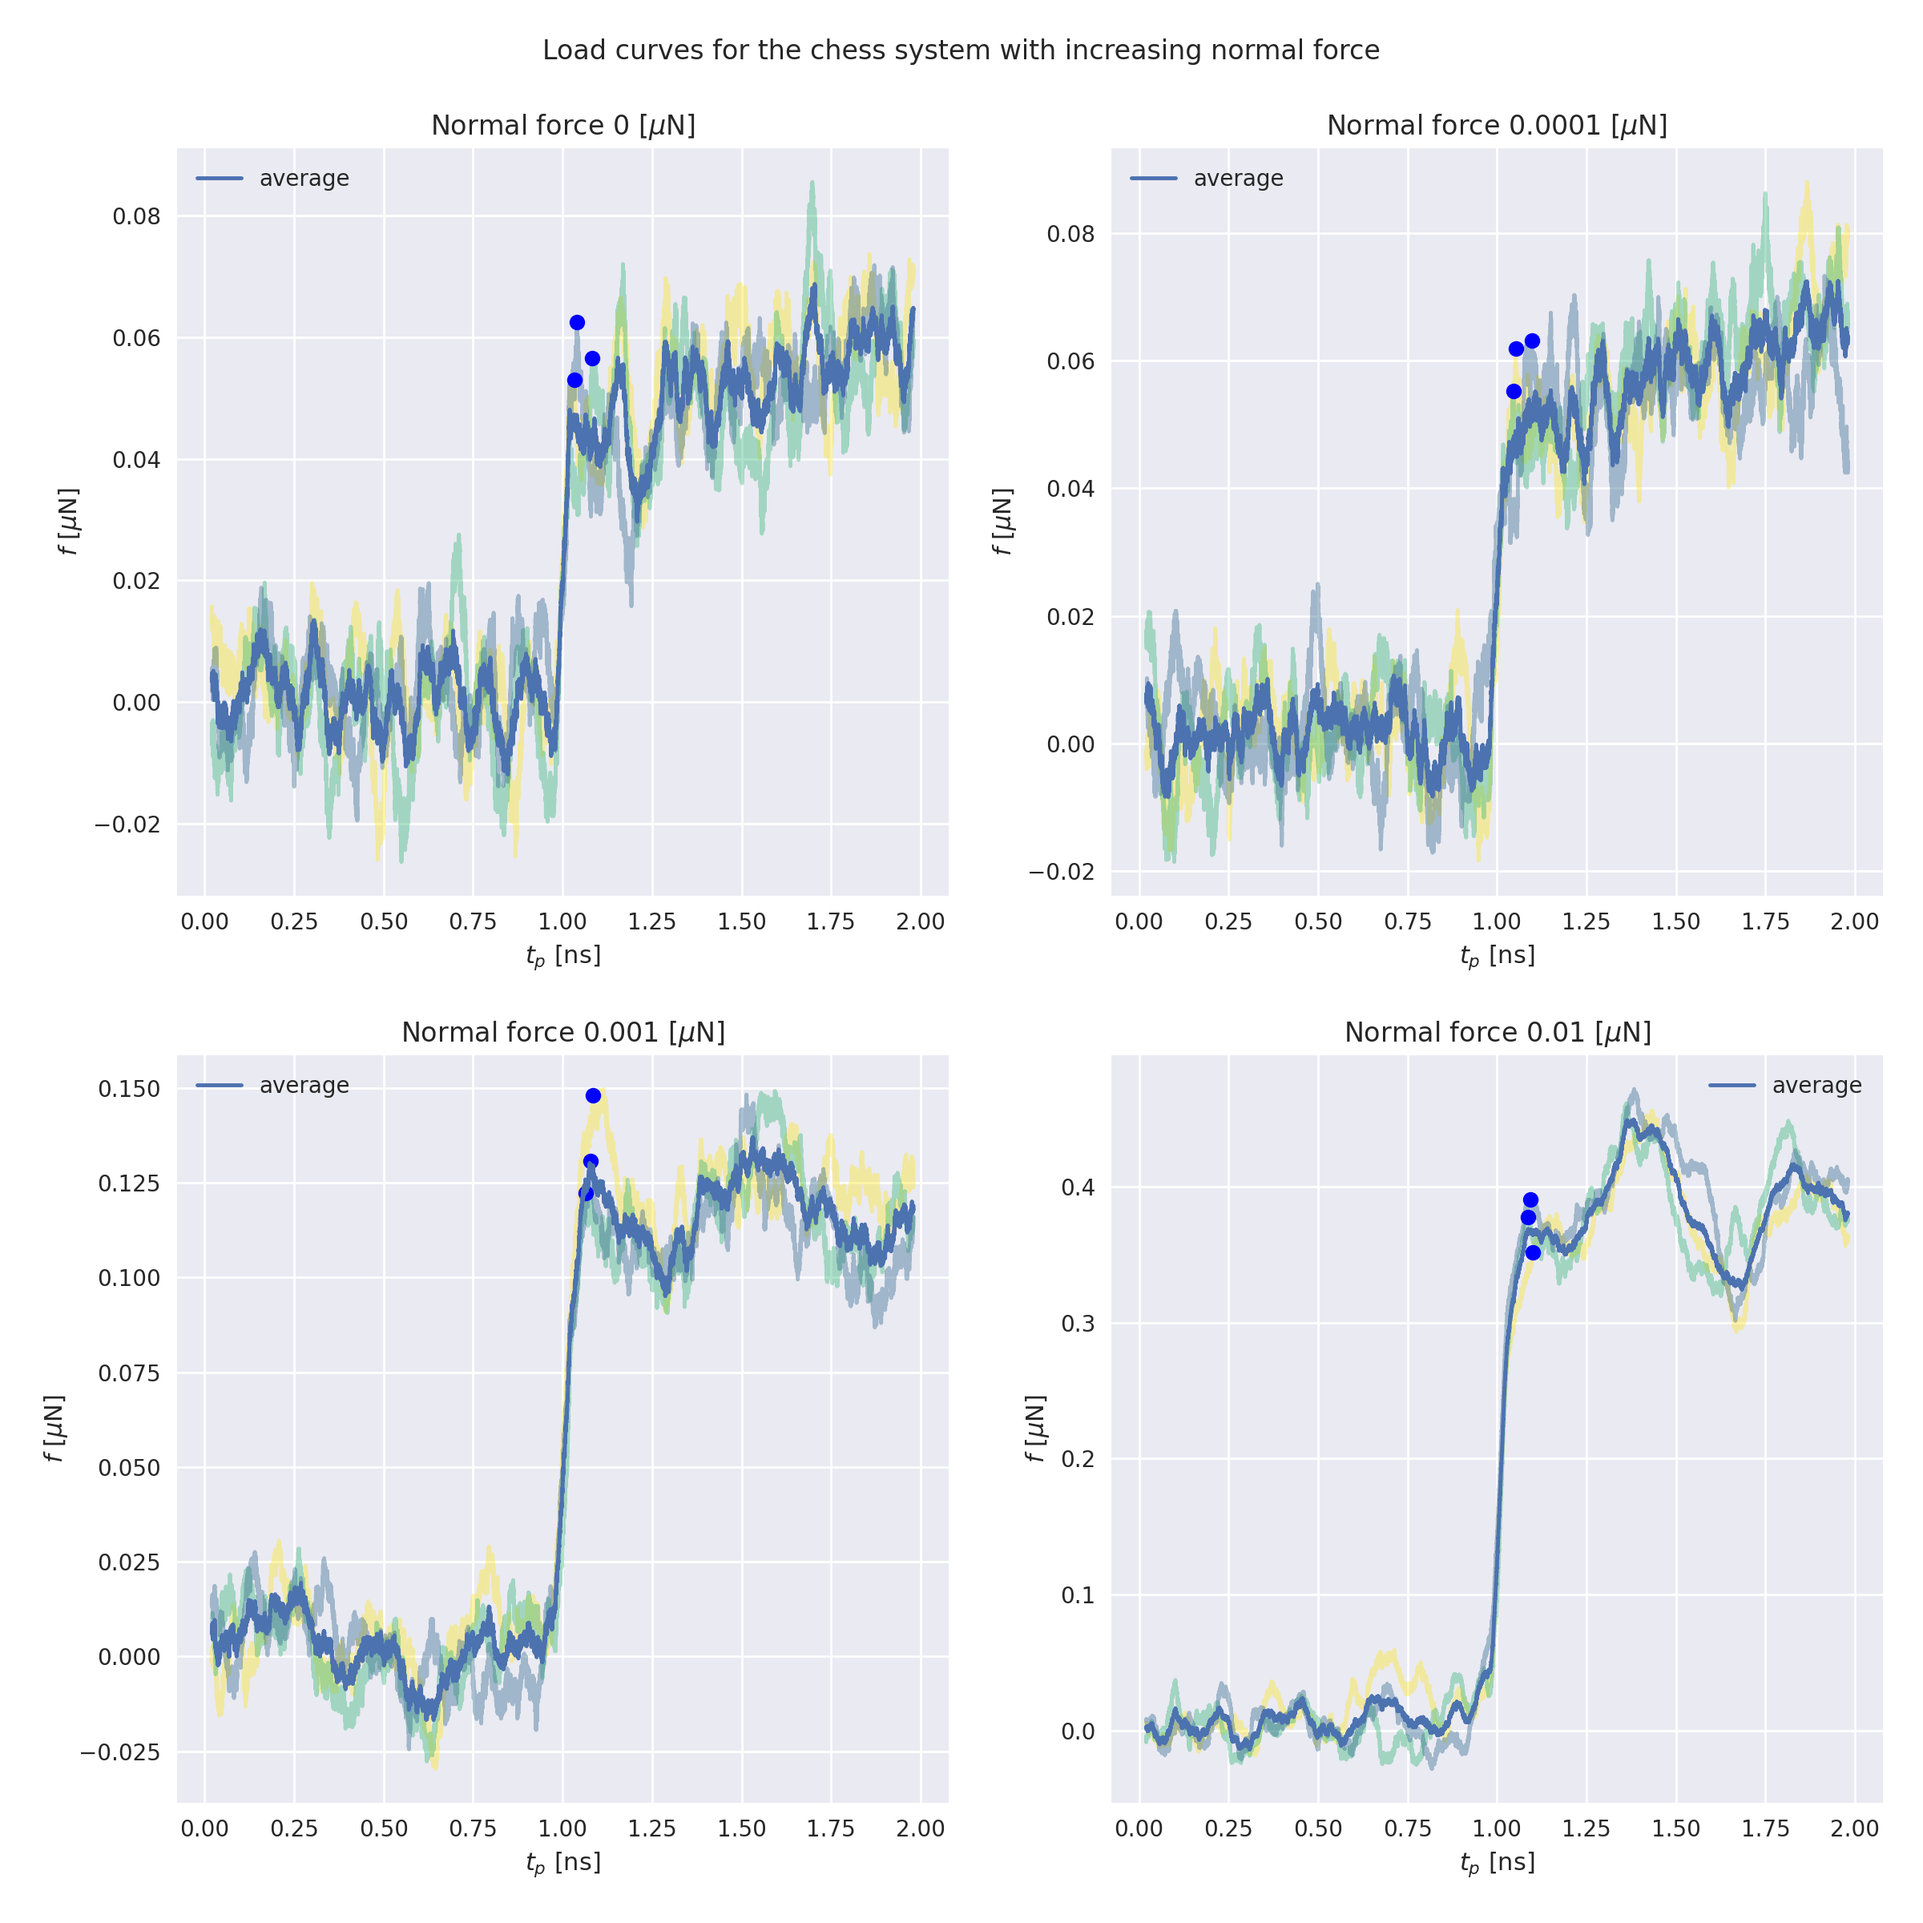
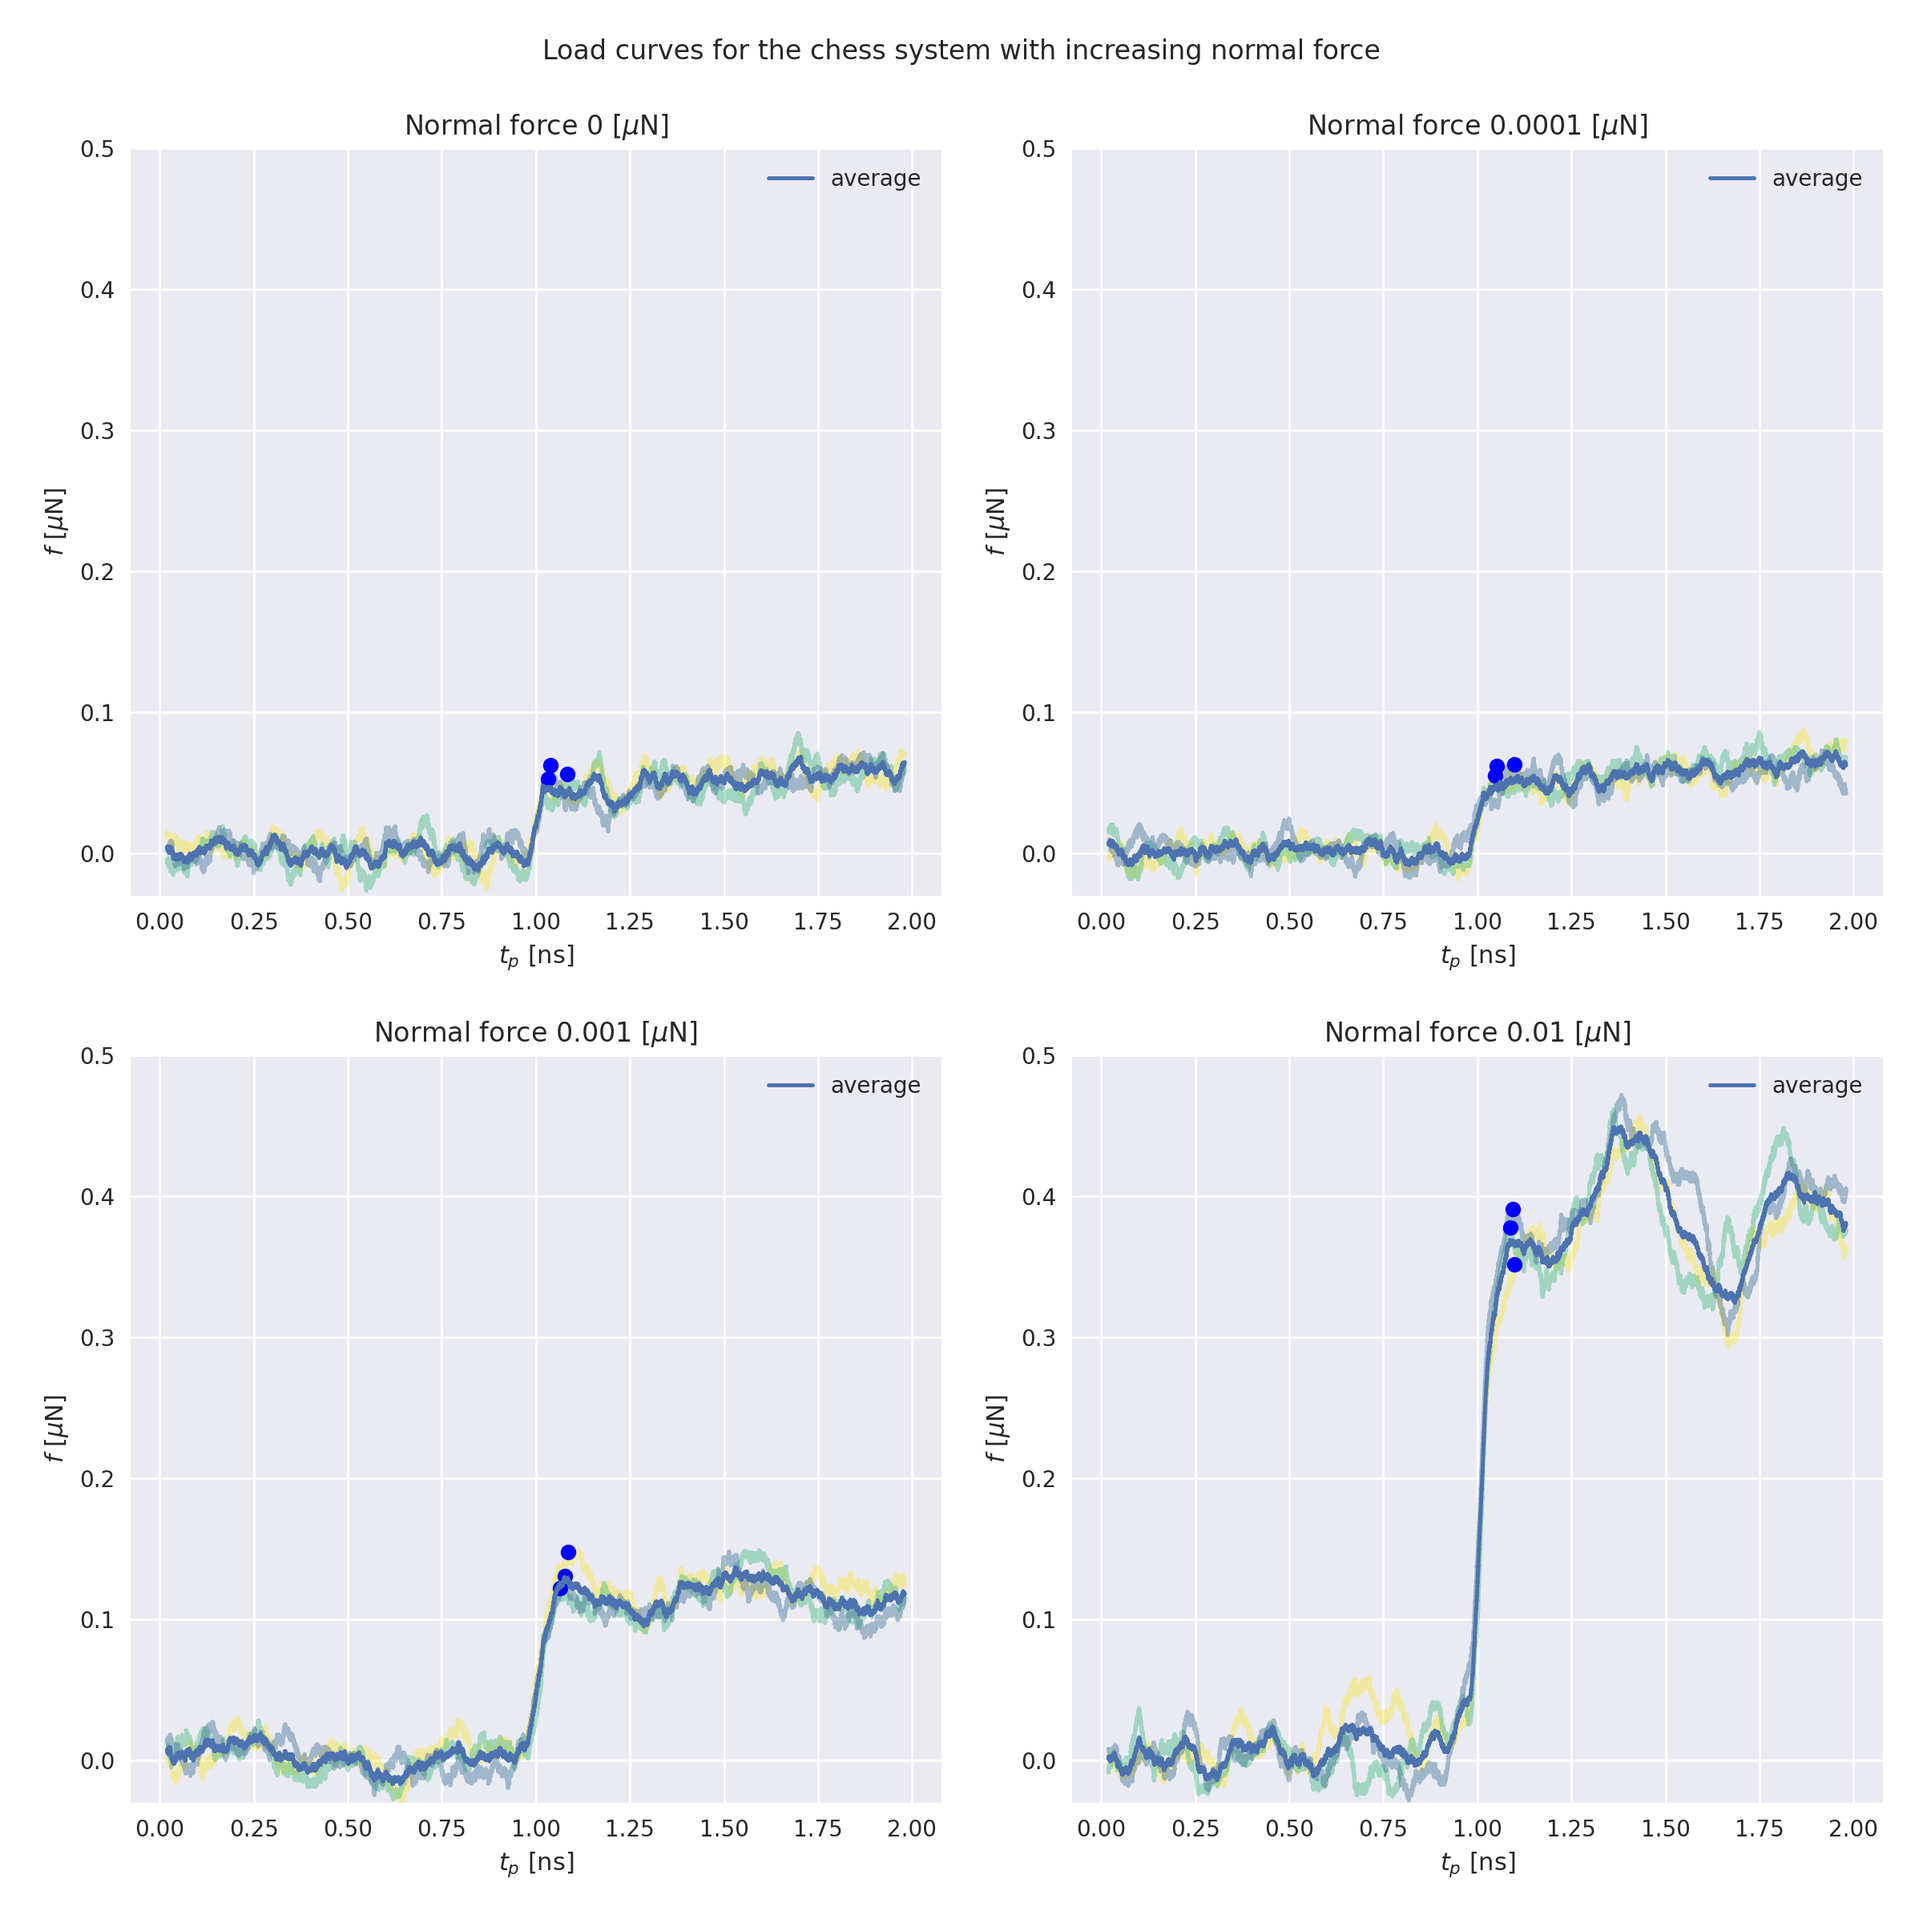
added ylim

diff --git a/python/plot/plot_vary_speed.py b/python/plot/plot_vary_speed.py
@@ -1,0 +1,109 @@
+import re
+import json
+from glob import glob
+from numpy import loadtxt, asarray, mean
+import numpy as np
+import matplotlib as mpl
+import matplotlib.pyplot as plt
+from multiline import multiline
+from matplotlib import style
+from plot_utils import sigmoid, rip_norm, test_rip_norm, fit_sigmoid
+plt.style.use('seaborn')
+
+from plot_load_curves import load_displacement, load_rise, load_load_curves, load_max_static
+
+
+
+
+
+
+def load_vs_normal_force():
+
+    # user input
+    temp = 2300
+    _vel = 5
+    orientation = 110
+    grid = (4,4)
+    erratic = True
+    asperities = 8
+    force = 0
+
+    # paths
+    project_dir = '../../'
+    fig_dir = project_dir + 'fig/'
+    highz_dir = '../../txt/high_z/'
+
+    load_curve_dir = project_dir + 'txt/load_curves/erratic/vary_speed/'
+    max_static_dir = project_dir + 'txt/max_static/erratic/vary_speed/'
+    rise_dir = project_dir + 'txt/rise/erratic/vary_speed/'
+
+    template_lc = load_curve_dir + 'load_curves_temp{}_vel{}_force{}_asp{}_or{}_seed{}_errgrid{}_{}.txt'
+    template_ms = max_static_dir + 'max_static_temp{}_vel{}_force{}_asp{}_or{}_seed{}_errgrid{}_{}.txt'
+    template_r = rise_dir + 'rise_temp{}_vel{}_force{}_asp{}_or{}_seed{}_errgrid4_4.txt'
+
+    #axs1 is load curves over time
+    fig, axs = plt.subplots(2,2, figsize = (12,12))
+    #axs2 is max static and rise
+    fig2, axs2 = plt.subplots(2)
+    axs2 = axs2.ravel()
+    axs = axs.ravel()
+    varyspeed = {2:(55910,60930,14424), 5:(72005,76229,37333), 7:(21702,77727,96687), 10:(56649,11605,41397)}
+
+
+    c = plt.cm.viridis((3 - np.arange(len(varyspeed)))/(3 - 0 + 0.01))
+    for i, (vel, seed) in enumerate(varyspeed.items()):
+
+        load_curves_all, load_curves_mean = load_load_curves(temp, _vel, force, asperities, orientation,
+                                                        grid, template_lc, template_ms, 0, seed, False)
+
+
+        max_static_all, max_static_mean = load_max_static(temp, _vel, force, asperities, orientation,
+                                                        grid, template_lc, template_ms, 0, seed, False)
+
+        rise_all, rise_mean = load_rise(temp, _vel, force, asperities, orientation,
+                                                        grid, template_r, 0, seed, False)
+
+
+        
+        for j,curve in enumerate(load_curves_all):
+            axs[i].plot(curve[:,0], curve[:,1], alpha = 0.4, c=c[j])
+        for j, max_static in enumerate(max_static_all):
+            axs[i].plot(max_static[0], max_static[1], 'bo')
+            axs2[0].plot(vel, max_static[1], 'o', c=c[j])
+        #axs2[0].plot(normforce, max_static_mean[1], '*', label='mean')
+        for j,rise in enumerate(rise_all):
+            axs2[1].plot(vel, rise, 'o', c = c[j])
+        #axs2[1].plot(normforce, rise_mean, '*', label='mean')
+        axs2[0].legend()
+
+    
+        axs[i].plot(load_curves_mean[0,:,0], load_curves_mean[0,:,1], label = f'average')
+        axs[i].legend()
+        axs[i].set_xlabel(r"$t_p$ [ns]")
+        axs[i].set_ylabel(r"$f$ [$\mu$N]")
+        axs[i].set_title(f'velocity {vel} [m/s]')
+        axs[i].set_ylim([-0.02, 0.14])
+
+    fig.suptitle(f"Load curves for the chess system with increasing top plate velocity")
+    fig.tight_layout(pad=1.8)
+    
+    outname = 'vary_vel.png'
+
+    print(f'saved fig to {fig_dir + outname}')
+    fig.savefig(fig_dir + outname, dpi = 200)
+
+    axs2[0].set_title('maximum static')
+    axs2[1].set_title('slope of sigmoid fit')
+    axs2[0].set_xlabel('top plate velocity [m/s]')
+    axs2[1].set_xlabel('top plate velocity [m/s]')
+    axs2[0].set_ylabel(r"$f$ [$\mu$N]")
+    axs2[1].set_ylabel(r"$f$ [$\mu$N]")
+
+
+    fig2.suptitle(f'slope and maximum static friction for varying velocity, chess layout')
+    fig2.tight_layout()
+    fig2.savefig(fig_dir + 'varying_vel_rise_maxstatic.png', dpi = 200)
+
+if __name__ == '__main__':
+
+    load_vs_normal_force()

diff --git a/python/plot/plot_load_curves.py b/python/plot/plot_load_curves.py
@@ -551,7 +551,7 @@ def plot_production():
         template_aux = project_dir + 'simulations/sys_asp{}_uc{}/erratic/sim_temp{}_force{}_asp{}_or{}_time{}_seed{}_errgrid4_4/system_asp{}_or{}_uc{}_initnum{}_errgrid4_4_auxiliary.json'
 
     fig2, axs2 = plt.subplots(2,1) #slope and ms
-    fig, axs = plt.subplots(5,2, figsize = (15,15))
+    fig, axs = plt.subplots(5,2, sharex = True, figsize = (15,15))
     axs = axs.ravel()
     axs2 = axs2.ravel()
     #initseed = {0:(77222, 66232, 79443), 1:(29672, 40129), 2:(64364, 32077), 3:(33829, 84296),
@@ -572,7 +572,7 @@ def plot_production():
     man_init_strange = {0: '[[0,1,1,0][0,1,1,0][0,1,1,0][0,1,1,0]]', 1: '[[0,0,0,0][1,1,1,1][1,1,1,1][0,0,0,0]]',
                         2: '[[0,1,0,0][1,1,1,0][1,1,1,0][0,1,0,0]]', 3: '[[1,0,1,0][0,1,0,1][1,0,1,0][0,1,0,1]]'}
     strange = True
-    c = plt.cm.viridis((9 - np.arange(10))/(9 - 0 + 0.01))
+    c = plt.cm.viridis((3 - np.arange(3))/(3 - 0 + 0.01))
     for i, (initnum, seeds) in enumerate(initseed.items()):
         if production:
             load_curves_all, load_curves_mean= load_load_curves(temp, vel, force, asperities, orientation,
@@ -615,7 +615,7 @@ def plot_production():
         #print('ms all, ms mean ', ms_all, ms_mean) 
         #print('load curves', np.shape(load_curves_all), np.shape(load_curves_mean))
         for j, load_curve in enumerate(load_curves_all):
-            axs[i].plot(load_curve[:,0], load_curve[:,1], c = c[i], label = f'rise: {rise_all[j]:.4e}')
+            axs[i].plot(load_curve[:,0], load_curve[:,1], c = c[j], label = f'rise: {rise_all[j]:.4e}')
             axs[i].legend()
             fit_sigmoid(load_curve, fig, axs[i])
 
@@ -623,9 +623,9 @@ def plot_production():
 
         for ms in ms_all:
            axs[i].plot(ms[0], ms[1], 'o') #this is just proprietary
-           axs2[0].plot(i, ms[1], 'ro', c=c[i])
-        for slope in rise_all:
-            axs2[1].plot(i, slope, 'ro', c = c[i])
+        #   axs2[0].plot(i, ms[1], 'ro', c=c[i])
+        #for slope in rise_all:
+        #    axs2[1].plot(i, slope, 'ro', c = c[i])
 
         axs[i].set_xlabel(r"$t_p$ [ns]")
         axs[i].set_ylabel(r"$f$ [$\mu$N]")
@@ -655,13 +655,12 @@ def plot_production():
         
     
     fig.subplots_adjust(hspace=0.3)
-    fig.suptitle(f"temp {temp}, force {force}, vel {vel}, asperities {asperities}, orientation {orientation}")
-    fig.legend()
-    fig.savefig(fig_dir + f'production_varying_initnum_temp{temp}_vel{vel}_force{force}_asp{asperities}_or{orientation}_time{time}.png')
+    fig.suptitle('load curves, maximum static friction and a fitted sigmoid curve for all 10 two asperity systems')
+    fig.savefig(fig_dir + f'production_varying_initnum_temp{temp}_vel{vel}_force{force}_asp{asperities}_or{orientation}_time{time}.png', dpi = 200)
     fig2.suptitle(f'maximum static and slope of sigmoid fit for all 10 two asperity configurations')
     fig2.subplots_adjust(hspace=0.3)
     fig2.legend()
-    fig2.savefig(fig_dir + f'production_varying_initnum_temp{temp}_vel{vel}_force{force}_asp{asperities}_or{orientation}_time{time}_maxstatic_rise.png')
+    fig2.savefig(fig_dir + f'production_varying_initnum_temp{temp}_vel{vel}_force{force}_asp{asperities}_or{orientation}_time{time}_maxstatic_rise_altcolour.png', dpi = 200)
 
         
 

diff --git a/python/plot/plot_vary_normforce.py b/python/plot/plot_vary_normforce.py
@@ -59,6 +59,7 @@ def load_vs_normal_force():
                         3: '[[0,1,0,0][1,1,1,0][1,1,1,0][0,1,0,0]]', 0: '[[1,0,1,0][0,1,0,1][1,0,1,0][0,1,0,1]]'}
 
     #c = plt.cm.viridis(np.array(tuple(varyforce))/(0.01))
+    c = plt.cm.viridis((3 - np.arange(len(vary_norm)))/(3 - 0 + 0.01))
     for i, (normforce, seed) in enumerate(vary_norm.items()):
 
         load_curves_all, load_curves_mean = load_load_curves(temp, vel, normforce, asperities, orientation,
@@ -79,31 +80,33 @@ def load_vs_normal_force():
         #print('glob heights file ',len(glob(heights_file)))
         #assert len(glob(heights_file)) == 1
 
-        #for curve in load_curves_all:
-        #    axs[i].plot(curve[:,0], curve[:,1], alpha = 0.4)
-        for max_static in max_static_all:
-        #    axs[i].plot(max_static[0], max_static[1], 'o')
-            axs2[0].plot(normforce, max_static[1], 'or')
+        
+        for j,curve in enumerate(load_curves_all):
+            axs[i].plot(curve[:,0], curve[:,1], alpha = 0.4, c=c[j])
+        for j, max_static in enumerate(max_static_all):
+            axs[i].plot(max_static[0], max_static[1], 'bo')
+            axs2[0].plot(normforce, max_static[1], 'o', c=c[j])
         #axs2[0].plot(normforce, max_static_mean[1], '*', label='mean')
-        for rise in rise_all:
-            axs2[1].plot(normforce, rise, 'or')
+        for j,rise in enumerate(rise_all):
+            axs2[1].plot(normforce, rise, 'o', c = c[j])
         #axs2[1].plot(normforce, rise_mean, '*', label='mean')
         axs2[0].legend()
 
+    
+        axs[i].plot(load_curves_mean[0,:,0], load_curves_mean[0,:,1], label = f'average')
+        axs[i].legend()
+        axs[i].set_xlabel(r"$t_p$ [ns]")
+        axs[i].set_ylabel(r"$f$ [$\mu$N]")
+        axs[i].set_title(f'Normal force {normforce} [$\mu$N]')
+        axs[i].set_ylim([-0.03, 0.5])
 
-        #axs[i].legend()
-        #axs[i].set_xlabel(r"$t_p$ [ns]")
-        #axs[i].set_ylabel(r"$f$ [$\mu$N]")
-        #axs[i].set_title(f'Normal force {normforce} [$\mu$N]')
-
-    fig.suptitle(f"Load curves for varying selected systems")
-    fig.legend()
+    fig.suptitle(f"Load curves for the chess system with increasing normal force")
     fig.tight_layout(pad=1.8)
     
     outname = 'vary_normforce.png'
 
     print(f'saved fig to {fig_dir + outname}')
-    #fig.savefig(fig_dir + outname)
+    fig.savefig(fig_dir + outname, dpi = 200)
 
     axs2[0].set_title('maximum static')
     axs2[1].set_title('slope of sigmoid fit')
@@ -114,9 +117,8 @@ def load_vs_normal_force():
 
 
     fig2.suptitle(f'slope and maximum static friction for varying normal force, chess layout')
-    fig2.legend()
     fig2.tight_layout()
-    fig2.savefig(fig_dir + 'varying_normforce_rise_maxstatic.png')
+    fig2.savefig(fig_dir + 'varying_normforce_rise_maxstatic.png', dpi = 200)
 
 if __name__ == '__main__':
 
